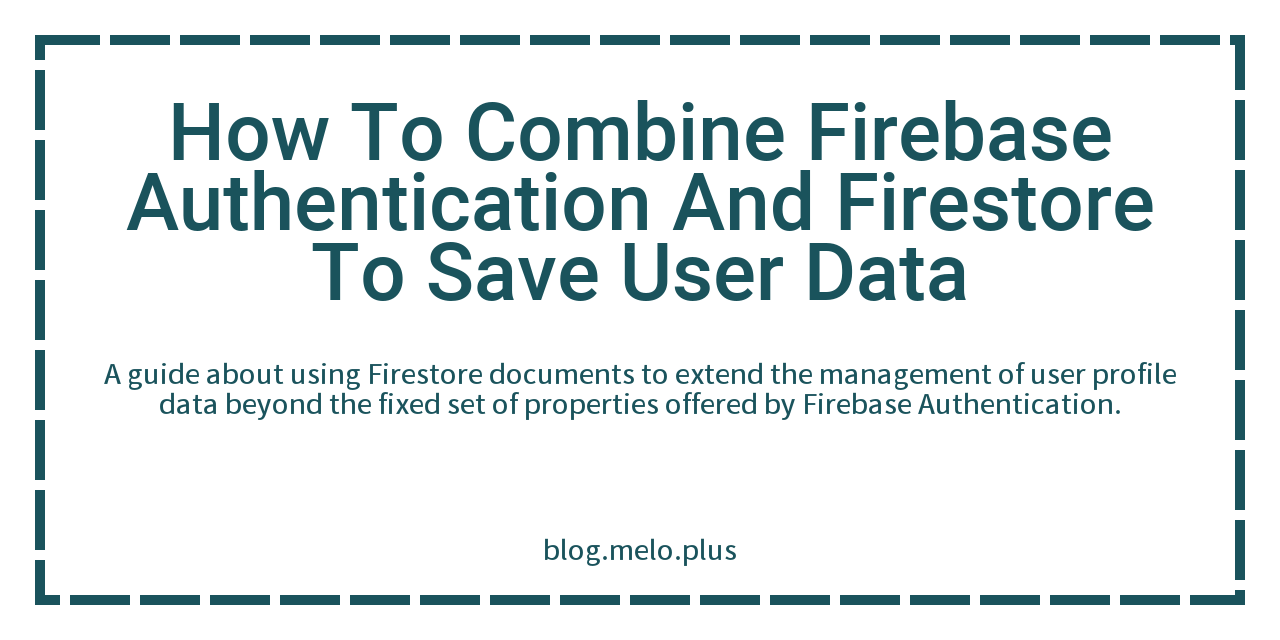
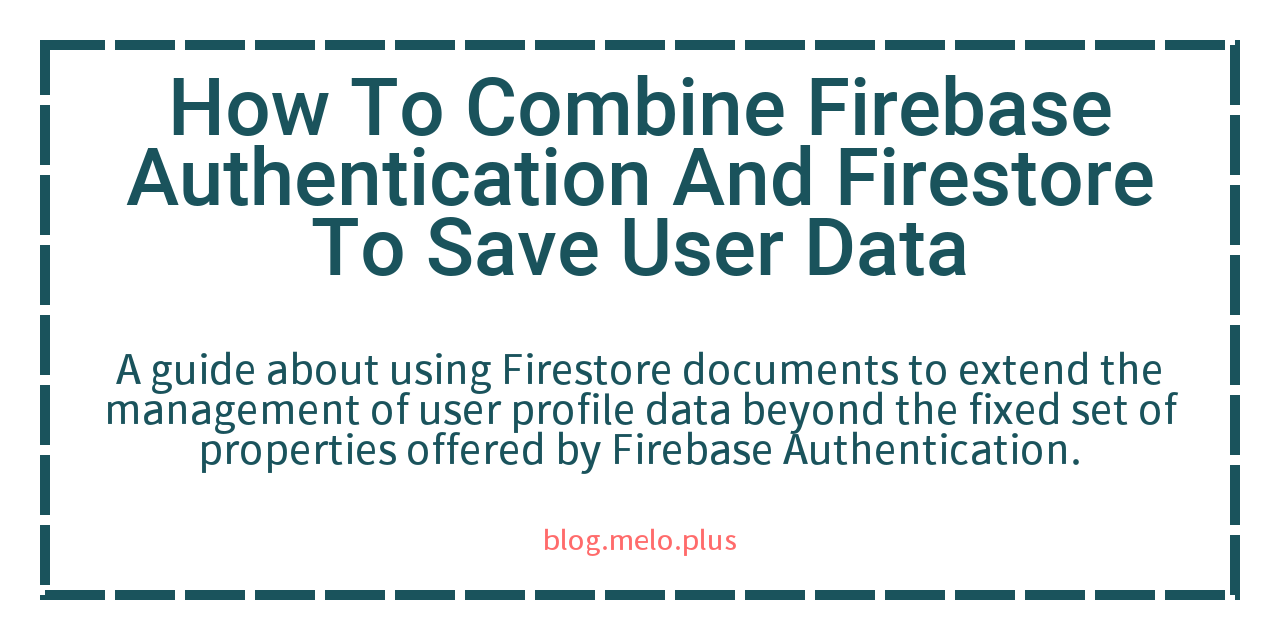
tight margins and bigger abstract font

Changed region(s): [[0.0, 0.0312, 1.0, 0.9688], [0.0938, 0.125, 0.9062, 0.4688], [0.4062, 0.8125, 0.5938, 0.875]]

diff --git a/config/create-cover.js b/config/create-cover.js
@@ -21,7 +21,7 @@ module.exports = function createCover(data) {
   context.fillRect(0, 0, width, height);
 
   // create dashed border
-  const margin = 40;
+  const margin = 45;
   context.lineWidth = 10;
   context.setLineDash([60, 10]);
   context.strokeStyle = "#1A535C"
@@ -34,10 +34,13 @@ module.exports = function createCover(data) {
   const textWidth = width - (4 * margin);
 
   context.font = '60pt "Roboto Medium"';
-  fillText(context, data.title, textCenter, margin * 4, textWidth);
+  fillText(context, data.title, textCenter, margin * 3, textWidth);
+
+  context.font = '30pt "Noto Sans JP Medium"';  
+  fillText(context, data.abstract, textCenter, height * (3/5), textWidth);
 
   context.font = '20pt "Noto Sans JP Medium"';  
-  fillText(context, data.abstract, textCenter, height * (3/5), textWidth);
+  context.fillStyle = '#FF6B6B';
   fillText(context, 'blog.melo.plus', textCenter, height - margin * 2, textWidth);
 
   const buffer = canvas.toBuffer('image/png');

diff --git a/docs/index.html b/docs/index.html
@@ -47,7 +47,7 @@
 
 
   <article class="post-list-item">
-    <h2><a href="/posts/2020/2020-06-16-building an-event-bus-with-vanilla-javascript/">Building an Event Bus With Vanilla JavaScript</a></h2>
+    <h2><a href="/posts/2020/2020-06-16-building-an-event-bus-with-vanilla-javascript/">Building an Event Bus With Vanilla JavaScript</a></h2>
     <p class="post-list-item-date"><time datetime="2020-06-16T03:00:00.000Z">June 16, 2020</time></p>
     <p class="post-list-item-abstract">The Event Bus is a common pattern to provide convenient access to global events inside an app or between services. This post describes how to fast implement a working version with just vanilla JavaScript.</p>
   </article>

diff --git a/docs/tags/patterns/index.html b/docs/tags/patterns/index.html
@@ -48,7 +48,7 @@
 
 
   <article class="post-list-item">
-    <h2><a href="/posts/2020/2020-06-16-building an-event-bus-with-vanilla-javascript/">Building an Event Bus With Vanilla JavaScript</a></h2>
+    <h2><a href="/posts/2020/2020-06-16-building-an-event-bus-with-vanilla-javascript/">Building an Event Bus With Vanilla JavaScript</a></h2>
     <p class="post-list-item-date"><time datetime="2020-06-16T03:00:00.000Z">June 16, 2020</time></p>
     <p class="post-list-item-abstract">The Event Bus is a common pattern to provide convenient access to global events inside an app or between services. This post describes how to fast implement a working version with just vanilla JavaScript.</p>
   </article>

diff --git a/docs/tags/reactivity/index.html b/docs/tags/reactivity/index.html
@@ -48,7 +48,7 @@
 
 
   <article class="post-list-item">
-    <h2><a href="/posts/2020/2020-06-16-building an-event-bus-with-vanilla-javascript/">Building an Event Bus With Vanilla JavaScript</a></h2>
+    <h2><a href="/posts/2020/2020-06-16-building-an-event-bus-with-vanilla-javascript/">Building an Event Bus With Vanilla JavaScript</a></h2>
     <p class="post-list-item-date"><time datetime="2020-06-16T03:00:00.000Z">June 16, 2020</time></p>
     <p class="post-list-item-abstract">The Event Bus is a common pattern to provide convenient access to global events inside an app or between services. This post describes how to fast implement a working version with just vanilla JavaScript.</p>
   </article>

diff --git a/docs/posts/2020/2020-06-16-building-an-event-bus-with-vanilla-javascript/index.html b/docs/posts/2020/2020-06-16-building-an-event-bus-with-vanilla-javascript/index.html
@@ -21,7 +21,7 @@
     
       <meta name="twitter:title" content="Building an Event Bus With Vanilla JavaScript">
     
-      <meta name="twitter:image" content="https://blog.melo.plus\media\2020-06-16-building an-event-bus-with-vanilla-javascript-cover.png">
+      <meta name="twitter:image" content="https://blog.melo.plus\media\2020-06-16-building-an-event-bus-with-vanilla-javascript-cover.png">
     
 
     <link rel="icon" type="image/png" href="/media/favicon.png">
